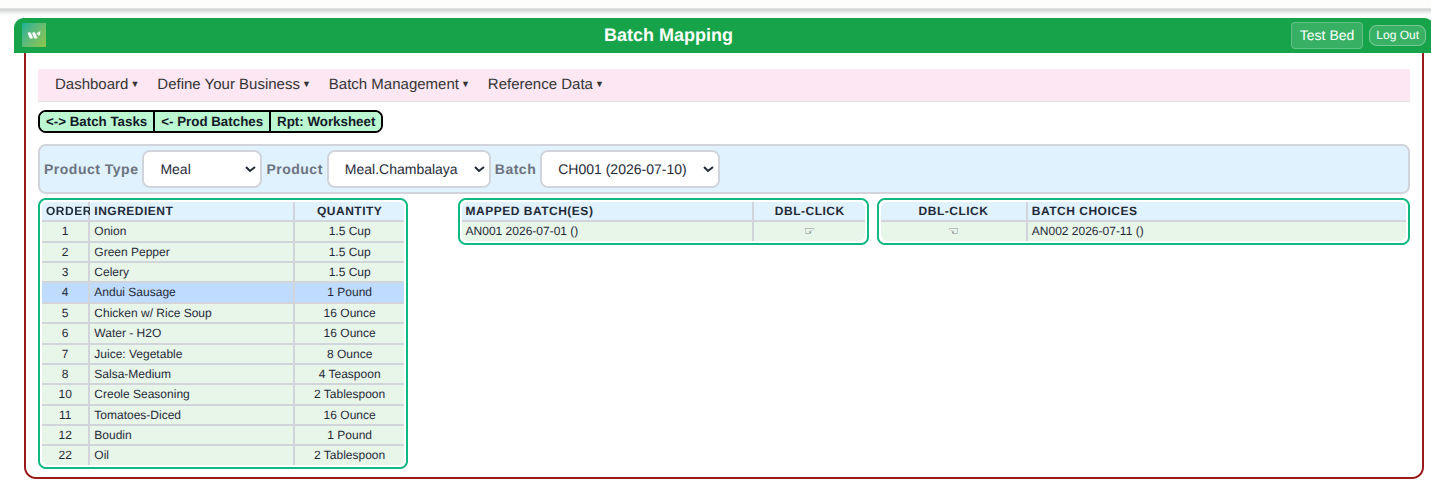
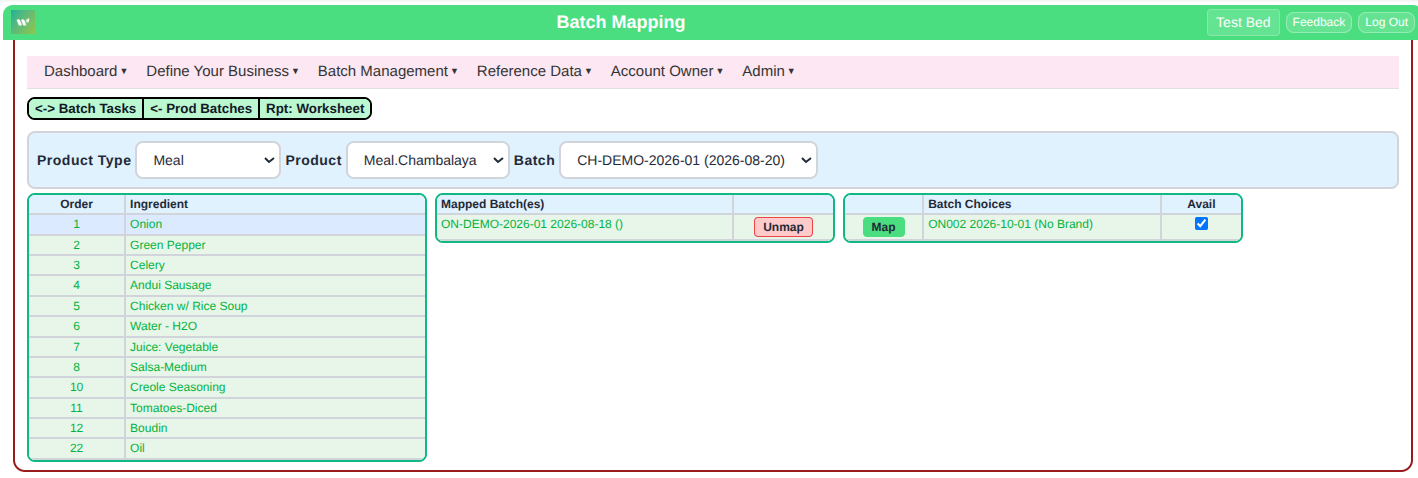
feat: content updates + disable registration pre-launch, fix prod deploy target
Paul's content updates: refreshed batch-mapping/intuitive-interface
screenshots, copy tweaks (click-to-map UI reflected accurately, dropdown
+ button tip, Product Lines terminology), and a real market-deploy fix
(DROPLET_HOST was missing the root@ user prefix for prod).

Disabled all three "Start Your Trial" CTAs (hero, pricing, bottom CTA)
pre-launch - registering today would create a row in dev's
whatsfresh.users/accounts, which the weekly legacy ETL truncates+reloads
from scratch every Sunday, silently wiping any real signup (same failure
mode that already wiped Test Bed's synthetic fixtures in August). Swapped
to a disabled "Coming Soon" span, trivially reversible once go-live
timing is settled with Joel. Login link untouched - no data-loss risk
there.

Changed region(s): [[0.0, 0.0, 1.0, 0.9958]]

diff --git a/site/index.html b/site/index.html
@@ -29,7 +29,7 @@
                 WhatsFresh gives small food makers the traceability tools retailers expect and regulators require—without the compliance headache.
             </p>
             <div class="hero-buttons">
-                <a href="https://dev-v2.whatsfresh.app/register" class="cta-button">Start Your Trial</a>
+                <span class="cta-button cta-button--disabled">Coming Soon</span>
             </div>
         </div>
     </section>
@@ -58,7 +58,7 @@
                 <div class="step-number">1</div>
                 <div class="step-content">
                     <h3>Set Up Your Business <span class="step-tag">as needed</span></h3>
-                    <p>Ingredient and Product types (and tasks), ingredients, products, and recipes.</p>
+                    <p>Product Lines (and their tasks), Products, Ingredient Types, Ingredients,  and recipes.</p>
                 </div>
             </div>
             <div class="step">
@@ -106,7 +106,7 @@
             <p class="pricing-amount">$35<span class="pricing-period">/month</span></p>
             <p class="pricing-tagline">That's it. Simple.</p>
             <p class="pricing-detail">No tiers. No per-seat fees. No surprises.</p>
-            <a href="https://dev-v2.whatsfresh.app/register" class="cta-button">Start Your Trial</a>
+            <span class="cta-button cta-button--disabled">Coming Soon</span>
         </div>
     </section>
 
@@ -125,7 +125,7 @@
         <h2>Ready to Simplify Your Production?</h2>
         <p>Join food makers who are managing batches faster and smarter.</p>
         <div class="hero-buttons">
-            <a href="https://dev-v2.whatsfresh.app/register" class="cta-button">Start Your Free Trial Today</a>
+            <span class="cta-button cta-button--disabled">Coming Soon</span>
         </div>
     </section>
 

diff --git a/site/css/style.css b/site/css/style.css
@@ -81,6 +81,19 @@ nav a:hover {
     background: #16a34a;
 }
 
+/* Temporary: registration disabled pre-launch (whatsfresh.users/accounts on
+   dev gets truncated+reloaded by the weekly legacy ETL - a real signup
+   would be wiped). Swap back to a live <a href> once go-live is confirmed. */
+.cta-button--disabled {
+    display: inline-block;
+    background: #9ca3af;
+    cursor: default;
+}
+
+.cta-button--disabled:hover {
+    background: #9ca3af;
+}
+
 /* Hero Section */
 .hero {
     background: linear-gradient(135deg, #f0fdf4 0%, #dcfce7 100%);
